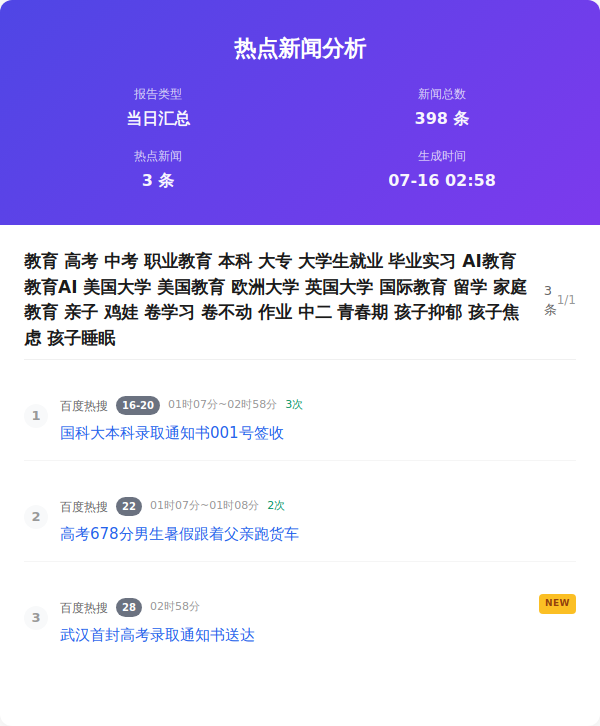
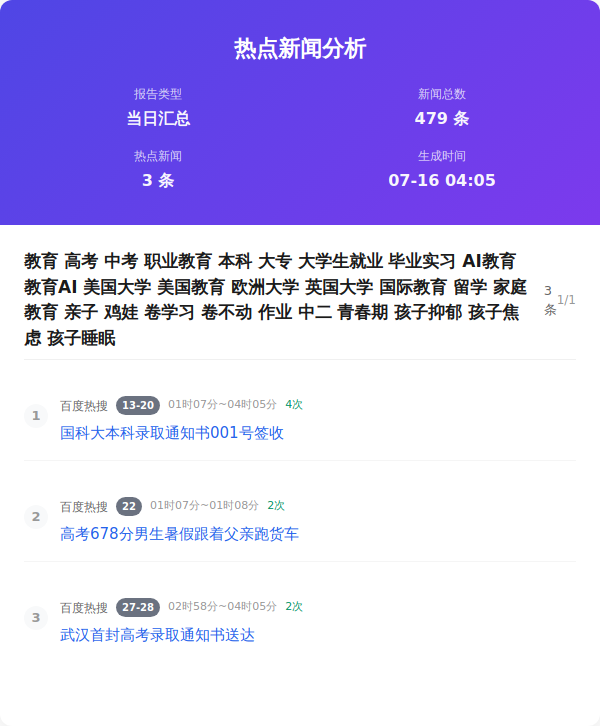
Auto update by GitHub Actions at Thu Jul 16 04:05:58 CST 2026

diff --git a/output/2026年07月16日/html/当日汇总.html b/output/2026年07月16日/html/当日汇总.html
@@ -357,7 +357,7 @@
                     </div>
                     <div class="info-item">
                         <span class="info-label">新闻总数</span>
-                        <span class="info-value">398 条</span>
+                        <span class="info-value">479 条</span>
                     </div>
                     <div class="info-item">
                         <span class="info-label">热点新闻</span>
@@ -365,7 +365,7 @@
                     </div>
                     <div class="info-item">
                         <span class="info-label">生成时间</span>
-                        <span class="info-value">07-16 02:58</span>
+                        <span class="info-value">07-16 04:05</span>
                     </div>
                 </div>
             </div>
@@ -383,7 +383,7 @@
                         <div class="news-number">1</div>
                         <div class="news-content">
                             <div class="news-header">
-                                <span class="source-name">百度热搜</span><span class="rank-num ">16-20</span><span class="time-info">01时07分~02时58分</span><span class="count-info">3次</span>
+                                <span class="source-name">百度热搜</span><span class="rank-num ">13-20</span><span class="time-info">01时07分~04时05分</span><span class="count-info">4次</span>
                             </div>
                             <div class="news-title"><a href="https://www.baidu.com/s?wd=%E5%9B%BD%E7%A7%91%E5%A4%A7%E6%9C%AC%E7%A7%91%E5%BD%95%E5%8F%96%E9%80%9A%E7%9F%A5%E4%B9%A6001%E5%8F%B7%E7%AD%BE%E6%94%B6" target="_blank" class="news-link">国科大本科录取通知书001号签收</a>
                             </div>
@@ -399,11 +399,11 @@
                             </div>
                         </div>
                     </div>
-                    <div class="news-item new">
+                    <div class="news-item ">
                         <div class="news-number">3</div>
                         <div class="news-content">
                             <div class="news-header">
-                                <span class="source-name">百度热搜</span><span class="rank-num ">28</span><span class="time-info">02时58分</span>
+                                <span class="source-name">百度热搜</span><span class="rank-num ">27-28</span><span class="time-info">02时58分~04时05分</span><span class="count-info">2次</span>
                             </div>
                             <div class="news-title"><a href="https://www.baidu.com/s?wd=%E6%AD%A6%E6%B1%89%E9%A6%96%E5%B0%81%E9%AB%98%E8%80%83%E5%BD%95%E5%8F%96%E9%80%9A%E7%9F%A5%E4%B9%A6%E9%80%81%E8%BE%BE" target="_blank" class="news-link">武汉首封高考录取通知书送达</a>
                             </div>